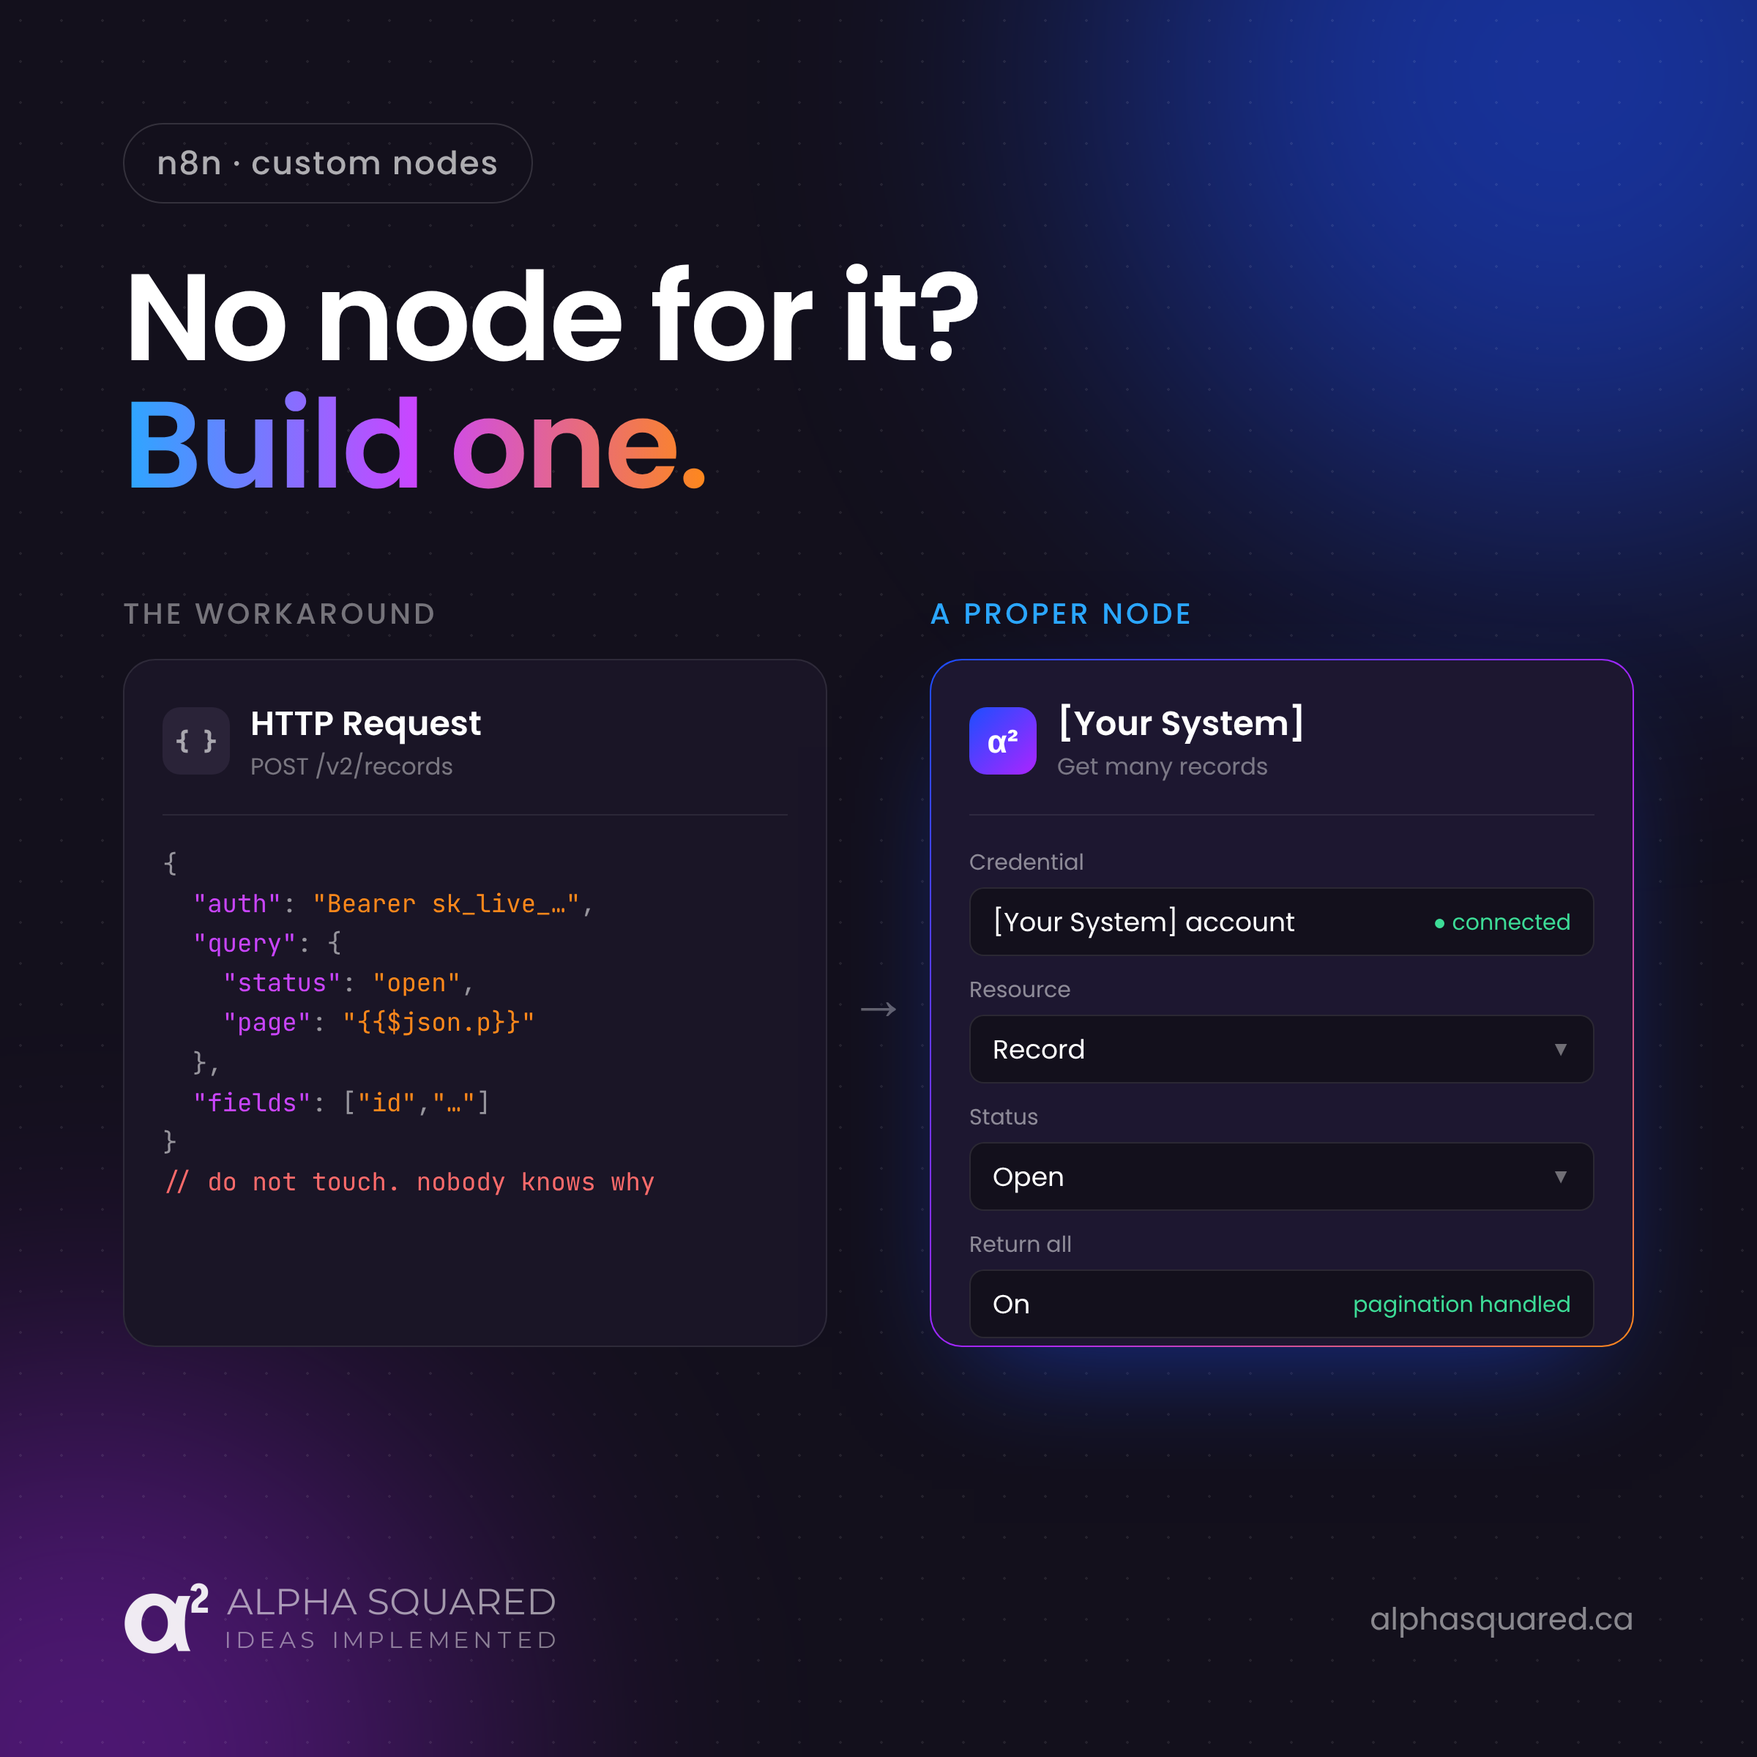
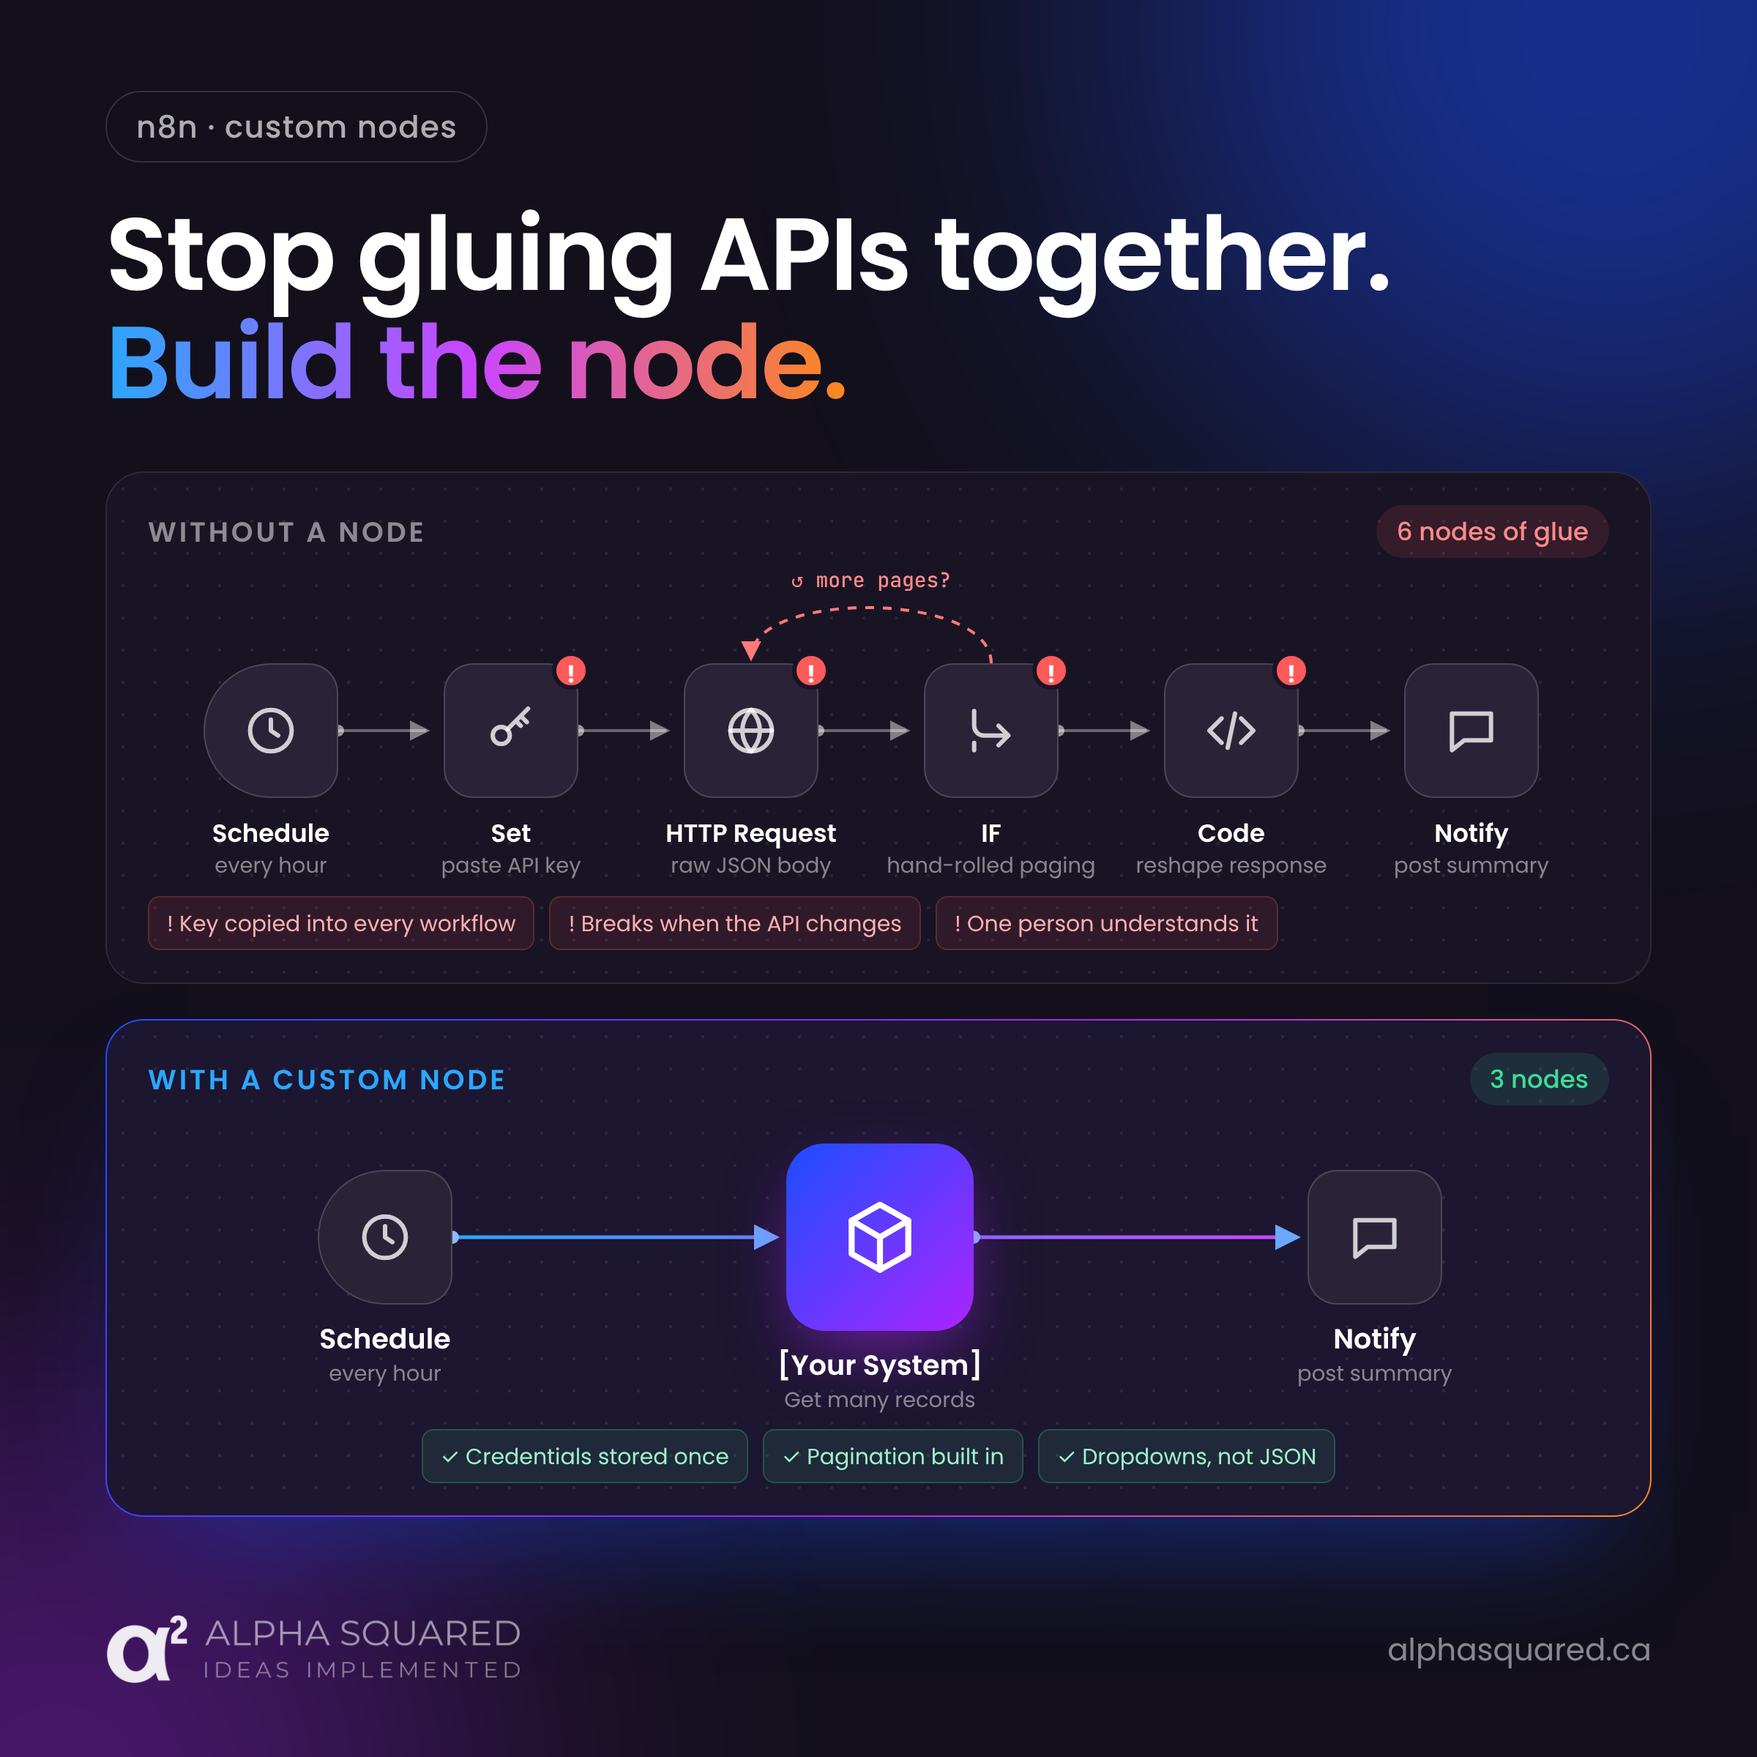
Redraw the n8n post image as two workflows
Claude-Session: https://claude.ai/code/session_01QT7c1s7C7iuz9xQL5hfNep

diff --git a/notes/images/2026-11-25-n8n-node.html b/notes/images/2026-11-25-n8n-node.html
@@ -1,128 +1,143 @@
 <!doctype html>
 <html><head><meta charset="utf-8">
-<link href="https://fonts.googleapis.com/css2?family=Poppins:wght@400;500;600;700&family=JetBrains+Mono:wght@400;500&display=swap" rel="stylesheet">
+<link href="https://fonts.googleapis.com/css2?family=Poppins:wght@400;500;600;700&family=JetBrains+Mono:wght@500&display=swap" rel="stylesheet">
 <style>
   * { box-sizing: border-box; margin: 0; padding: 0; }
   html, body { width: 1200px; height: 1200px; }
-  body {
-    background: #13101c;
-    font-family: 'Poppins', sans-serif;
-    color: #fff;
-    position: relative;
-    overflow: hidden;
-  }
-  .glow { position: absolute; border-radius: 50%; filter: blur(120px); opacity: .55; }
-  .g1 { width: 620px; height: 620px; background: #1c4eff; top: -260px; right: -180px; }
-  .g2 { width: 520px; height: 520px; background: #ac24ff; bottom: -260px; left: -200px; opacity: .4; }
-  .grid {
-    position: absolute; inset: 0;
-    background-image: radial-gradient(rgba(255,255,255,.07) 1px, transparent 1px);
-    background-size: 28px 28px;
-  }
-  .wrap { position: relative; padding: 84px 84px 0; height: 100%; }
-  .kicker {
-    display: inline-block; font-size: 22px; font-weight: 500; letter-spacing: .04em;
-    color: rgba(255,255,255,.66);
-    border: 1px solid rgba(255,255,255,.14); border-radius: 999px; padding: 10px 22px;
-  }
-  h1 { font-size: 84px; line-height: 1.04; font-weight: 600; letter-spacing: -.02em; margin-top: 34px; }
-  h1 .grad {
-    background: linear-gradient(90deg, #2ba7ff 0%, #ca45ff 50%, #fe881b 100%);
-    -webkit-background-clip: text; background-clip: text; color: transparent;
-  }
+  body { background: #13101c; font-family: 'Poppins', sans-serif; color: #fff; position: relative; overflow: hidden; }
+  .glow { position: absolute; border-radius: 50%; filter: blur(130px); }
+  .g1 { width: 640px; height: 640px; background: #1c4eff; top: -300px; right: -220px; opacity: .5; }
+  .g2 { width: 560px; height: 560px; background: #ac24ff; bottom: -300px; left: -240px; opacity: .35; }
 
-  .compare { display: grid; grid-template-columns: 1fr 70px 1fr; align-items: center; margin-top: 56px; }
-  .label { font-size: 20px; font-weight: 500; letter-spacing: .1em; text-transform: uppercase; margin-bottom: 16px; }
-  .label.before { color: rgba(255,255,255,.42); }
-  .label.after { color: #2ba7ff; }
+  .head { position: absolute; left: 72px; top: 62px; right: 72px; }
+  .kicker { display: inline-block; font-size: 21px; font-weight: 500; letter-spacing: .03em; color: rgba(255,255,255,.66);
+            border: 1px solid rgba(255,255,255,.14); border-radius: 999px; padding: 8px 20px; }
+  h1 { font-size: 70px; line-height: 1.06; font-weight: 600; letter-spacing: -.02em; margin-top: 26px; }
+  .grad { background: linear-gradient(90deg, #2ba7ff 0%, #ca45ff 50%, #fe881b 100%); -webkit-background-clip: text; background-clip: text; color: transparent; }
 
-  .node {
-    background: #1a1526; border: 1px solid rgba(255,255,255,.09); border-radius: 22px;
-    padding: 26px; height: 470px; display: flex; flex-direction: column;
-  }
-  .node.after {
-    border: 1.5px solid transparent;
-    background: linear-gradient(#1d1730, #1d1730) padding-box,
-                linear-gradient(135deg, #1c4eff, #ac24ff 55%, #fe881b) border-box;
-    box-shadow: 0 30px 80px -30px rgba(28,78,255,.55);
-  }
-  .nhead { display: flex; align-items: center; gap: 14px; padding-bottom: 20px; border-bottom: 1px solid rgba(255,255,255,.08); margin-bottom: 20px; }
-  .icon { width: 46px; height: 46px; border-radius: 12px; display: grid; place-items: center; font-size: 22px; font-weight: 600; flex: none; }
-  .icon.http { background: #2a2338; color: rgba(255,255,255,.6); font-family: 'JetBrains Mono', monospace; font-size: 16px; }
-  .icon.mine { background: linear-gradient(135deg, #1c4eff, #ac24ff); }
-  .ntitle { font-size: 23px; font-weight: 600; }
-  .nsub { font-size: 16px; color: rgba(255,255,255,.42); }
+  .panel { position: absolute; left: 72px; width: 1056px; border-radius: 26px; overflow: hidden;
+           background-color: #191424; border: 1px solid rgba(255,255,255,.09);
+           background-image: radial-gradient(rgba(255,255,255,.075) 1.2px, transparent 1.2px); background-size: 22px 22px; }
+  .p1 { top: 322px; height: 350px; }
+  .p2 { top: 696px; height: 340px;
+        border: 1.5px solid transparent;
+        background: radial-gradient(rgba(255,255,255,.075) 1.2px, transparent 1.2px) 0 0 / 22px 22px padding-box,
+                    linear-gradient(#1c1630, #1c1630) padding-box,
+                    linear-gradient(120deg, #1c4eff, #ac24ff 55%, #fe881b) border-box;
+        box-shadow: 0 40px 90px -40px rgba(28,78,255,.6); }
 
-  pre {
-    font-family: 'JetBrains Mono', monospace; font-size: 17px; line-height: 1.6;
-    color: rgba(255,255,255,.55); white-space: pre; overflow: hidden;
-  }
-  .k { color: #ca45ff; } .s { color: #fe881b; } .warn { color: #ff6b6b; }
+  .ph { position: absolute; left: 28px; right: 28px; top: 22px; display: flex; justify-content: space-between; align-items: center; z-index: 3; }
+  .ptitle { font-size: 19px; font-weight: 600; letter-spacing: .1em; text-transform: uppercase; }
+  .p1 .ptitle { color: rgba(255,255,255,.5); }
+  .p2 .ptitle { color: #2ba7ff; }
+  .count { font-size: 17px; font-weight: 500; padding: 5px 14px; border-radius: 999px; }
+  .p1 .count { color: #ff8a8a; background: rgba(255,90,90,.12); }
+  .p2 .count { color: #3ddc97; background: rgba(61,220,151,.12); }
 
-  .field { margin-bottom: 11px; }
-  .flabel { font-size: 15px; color: rgba(255,255,255,.5); margin-bottom: 6px; }
-  .finput {
-    background: #13101c; border: 1px solid rgba(255,255,255,.1); border-radius: 10px;
-    padding: 9px 15px; font-size: 18px; display: flex; justify-content: space-between; align-items: center;
-  }
-  .finput .chev { color: rgba(255,255,255,.4); font-size: 14px; }
-  .ok { color: #3ddc97; font-size: 15px; }
+  svg.wires { position: absolute; inset: 0; z-index: 1; }
 
-  .arrow { text-align: center; font-size: 40px; color: rgba(255,255,255,.35); padding-top: 40px; }
+  .node { position: absolute; width: 92px; height: 92px; margin-left: -46px; border-radius: 20px; z-index: 2;
+          background: #2a2338; border: 1.5px solid rgba(255,255,255,.16);
+          display: grid; place-items: center; }
+  .node svg { width: 40px; height: 40px; stroke: rgba(255,255,255,.78); fill: none; stroke-width: 1.8; stroke-linecap: round; stroke-linejoin: round; }
+  .node.trig { border-radius: 46px 20px 20px 46px; }
+  .node.big { width: 128px; height: 128px; margin-left: -64px; border-radius: 26px; border: none;
+              background: linear-gradient(135deg, #1c4eff, #ac24ff); box-shadow: 0 18px 50px -12px rgba(172,36,255,.65); }
+  .node.big svg { width: 58px; height: 58px; stroke: #fff; stroke-width: 1.7; }
+  .bad { position: absolute; top: -9px; right: -9px; width: 26px; height: 26px; border-radius: 50%;
+         background: #ff5a5a; color: #fff; font-size: 16px; font-weight: 700; display: grid; place-items: center;
+         border: 3px solid #191424; }
 
-  .foot {
-    position: absolute; left: 84px; right: 84px; bottom: 70px;
-    display: flex; justify-content: space-between; align-items: center;
-  }
-  .foot img { height: 50px; }
+  .lab { position: absolute; width: 180px; margin-left: -90px; text-align: center; z-index: 2; }
+  .lab b { display: block; font-size: 17px; font-weight: 600; line-height: 1.25; }
+  .lab span { display: block; font-size: 14.5px; color: rgba(255,255,255,.48); line-height: 1.3; margin-top: 2px; }
+  .p2 .lab b { font-size: 19px; }
+
+  .loop { position: absolute; z-index: 2; font-family: 'JetBrains Mono', monospace; font-size: 14px; color: #ff8a8a;
+          width: 240px; margin-left: -120px; text-align: center; }
+
+  .legend { position: absolute; left: 28px; right: 28px; bottom: 22px; display: flex; gap: 10px; z-index: 3; }
+  .legend span { font-size: 15px; padding: 6px 12px; border-radius: 8px; white-space: nowrap; }
+  .p1 .legend span { color: #ffb0b0; background: rgba(255,90,90,.10); border: 1px solid rgba(255,90,90,.22); }
+  .p2 .legend { justify-content: center; }
+  .p2 .legend span { color: #9ff0c9; background: rgba(61,220,151,.10); border: 1px solid rgba(61,220,151,.24); }
+
+  .foot { position: absolute; left: 72px; right: 72px; bottom: 50px; display: flex; justify-content: space-between; align-items: center; }
+  .foot img { height: 48px; }
   .foot span { font-size: 21px; color: rgba(255,255,255,.5); }
 </style></head>
 <body>
-  <div class="glow g1"></div><div class="glow g2"></div><div class="grid"></div>
-  <div class="wrap">
+  <div class="glow g1"></div><div class="glow g2"></div>
+
+  <div class="head">
     <span class="kicker">n8n · custom nodes</span>
-    <h1>No node for it?<br><span class="grad">Build one.</span></h1>
+    <h1>Stop gluing APIs together.<br><span class="grad">Build the node.</span></h1>
+  </div>
 
-    <div class="compare">
-      <div>
-        <div class="label before">The workaround</div>
-        <div class="node">
-          <div class="nhead">
-            <div class="icon http">{ }</div>
-            <div><div class="ntitle">HTTP Request</div><div class="nsub">POST /v2/records</div></div>
-          </div>
-<pre>{
-  <span class="k">"auth"</span>: <span class="s">"Bearer sk_live_…"</span>,
-  <span class="k">"query"</span>: {
-    <span class="k">"status"</span>: <span class="s">"open"</span>,
-    <span class="k">"page"</span>: <span class="s">"{{$json.p}}"</span>
-  },
-  <span class="k">"fields"</span>: [<span class="s">"id"</span>,<span class="s">"…"</span>]
-}
-<span class="warn">// do not touch. nobody knows why</span></pre>
-        </div>
-      </div>
+  <!-- ============ WITHOUT ============ -->
+  <div class="panel p1">
+    <div class="ph"><span class="ptitle">Without a node</span><span class="count">6 nodes of glue</span></div>
 
-      <div class="arrow">→</div>
+    <svg class="wires" width="1056" height="350" viewBox="0 0 1056 350">
+      <defs>
+        <marker id="ag" viewBox="0 0 10 10" refX="8" refY="5" markerWidth="7" markerHeight="7" orient="auto"><path d="M0,0 L10,5 L0,10 z" fill="rgba(255,255,255,.45)"/></marker>
+        <marker id="ar" viewBox="0 0 10 10" refX="8" refY="5" markerWidth="7" markerHeight="7" orient="auto"><path d="M0,0 L10,5 L0,10 z" fill="#ff7a7a"/></marker>
+      </defs>
+      <g stroke="rgba(255,255,255,.35)" stroke-width="2" fill="none" marker-end="url(#ag)">
+        <path d="M158 176 H218"/><path d="M322 176 H382"/><path d="M486 176 H546"/>
+        <path d="M650 176 H710"/><path d="M814 176 H874"/>
+      </g>
+      <g fill="rgba(255,255,255,.55)">
+        <circle cx="158" cy="176" r="4"/><circle cx="322" cy="176" r="4"/><circle cx="486" cy="176" r="4"/>
+        <circle cx="650" cy="176" r="4"/><circle cx="814" cy="176" r="4"/>
+      </g>
+      <!-- pagination loop: IF back to HTTP -->
+      <path d="M604 130 C604 80, 440 80, 440 126" stroke="#ff7a7a" stroke-width="2" stroke-dasharray="6 6" fill="none" marker-end="url(#ar)"/>
+    </svg>
 
-      <div>
-        <div class="label after">A proper node</div>
-        <div class="node after">
-          <div class="nhead">
-            <div class="icon mine">α²</div>
-            <div><div class="ntitle">[Your System]</div><div class="nsub">Get many records</div></div>
-          </div>
-          <div class="field"><div class="flabel">Credential</div>
-            <div class="finput">[Your System] account <span class="ok">● connected</span></div></div>
-          <div class="field"><div class="flabel">Resource</div>
-            <div class="finput">Record <span class="chev">▼</span></div></div>
-          <div class="field"><div class="flabel">Status</div>
-            <div class="finput">Open <span class="chev">▼</span></div></div>
-          <div class="field"><div class="flabel">Return all</div>
-            <div class="finput">On <span class="ok">pagination handled</span></div></div>
-        </div>
-      </div>
-    </div>
+    <div class="loop" style="left:522px; top:64px">↺ more pages?</div>
+
+    <div class="node trig" style="left:112px; top:130px"><svg viewBox="0 0 24 24"><circle cx="12" cy="12" r="8.5"/><path d="M12 7.5V12l3 2"/></svg></div>
+    <div class="node" style="left:276px; top:130px"><svg viewBox="0 0 24 24"><circle cx="8" cy="14" r="3.5"/><path d="M10.5 11.5 19 3M16 6l2.5 2.5M14 8l2 2"/></svg><div class="bad">!</div></div>
+    <div class="node" style="left:440px; top:130px"><svg viewBox="0 0 24 24"><circle cx="12" cy="12" r="8.5"/><path d="M3.5 12h17M12 3.5c2.5 2.6 3.6 5.4 3.6 8.5s-1.1 5.9-3.6 8.5c-2.5-2.6-3.6-5.4-3.6-8.5S9.5 6.1 12 3.5Z"/></svg><div class="bad">!</div></div>
+    <div class="node" style="left:604px; top:130px"><svg viewBox="0 0 24 24"><path d="M5 4v6a4 4 0 0 0 4 4h10M15 10l4 4-4 4M5 20v-3"/></svg><div class="bad">!</div></div>
+    <div class="node" style="left:768px; top:130px"><svg viewBox="0 0 24 24"><path d="m8 7-5 5 5 5M16 7l5 5-5 5M13.5 5l-3 14"/></svg><div class="bad">!</div></div>
+    <div class="node" style="left:932px; top:130px"><svg viewBox="0 0 24 24"><path d="M4 5h16v11H9l-5 4z"/></svg></div>
+
+    <div class="lab" style="left:112px; top:236px"><b>Schedule</b><span>every hour</span></div>
+    <div class="lab" style="left:276px; top:236px"><b>Set</b><span>paste API key</span></div>
+    <div class="lab" style="left:440px; top:236px"><b>HTTP Request</b><span>raw JSON body</span></div>
+    <div class="lab" style="left:604px; top:236px"><b>IF</b><span>hand-rolled paging</span></div>
+    <div class="lab" style="left:768px; top:236px"><b>Code</b><span>reshape response</span></div>
+    <div class="lab" style="left:932px; top:236px"><b>Notify</b><span>post summary</span></div>
+
+    <div class="legend"><span>! Key copied into every workflow</span><span>! Breaks when the API changes</span><span>! One person understands it</span></div>
+  </div>
+
+  <!-- ============ WITH ============ -->
+  <div class="panel p2">
+    <div class="ph"><span class="ptitle">With a custom node</span><span class="count">3 nodes</span></div>
+
+    <svg class="wires" width="1056" height="340" viewBox="0 0 1056 340">
+      <defs>
+        <marker id="ab" viewBox="0 0 10 10" refX="8" refY="5" markerWidth="7" markerHeight="7" orient="auto"><path d="M0,0 L10,5 L0,10 z" fill="#6aa8ff"/></marker>
+        <linearGradient id="wg" gradientUnits="userSpaceOnUse" x1="236" y1="0" x2="812" y2="0"><stop offset="0" stop-color="#2ba7ff"/><stop offset="1" stop-color="#ca45ff"/></linearGradient>
+      </defs>
+      <g stroke="url(#wg)" stroke-width="2.5" fill="none" marker-end="url(#ab)">
+        <path d="M236 148 H456"/><path d="M592 148 H812"/>
+      </g>
+      <g fill="#8fb8ff"><circle cx="236" cy="148" r="4.5"/><circle cx="592" cy="148" r="4.5"/></g>
+    </svg>
+
+    <div class="node trig" style="left:190px; top:102px"><svg viewBox="0 0 24 24"><circle cx="12" cy="12" r="8.5"/><path d="M12 7.5V12l3 2"/></svg></div>
+    <div class="node big" style="left:528px; top:84px"><svg viewBox="0 0 24 24"><path d="M12 2.8 20 7.3v9.4L12 21.2 4 16.7V7.3z"/><path d="M4 7.3 12 12l8-4.7M12 12v9.2"/></svg></div>
+    <div class="node" style="left:866px; top:102px"><svg viewBox="0 0 24 24"><path d="M4 5h16v11H9l-5 4z"/></svg></div>
+
+    <div class="lab" style="left:190px; top:206px"><b>Schedule</b><span>every hour</span></div>
+    <div class="lab" style="left:528px; top:224px; width:260px; margin-left:-130px"><b>[Your System]</b><span>Get many records</span></div>
+    <div class="lab" style="left:866px; top:206px"><b>Notify</b><span>post summary</span></div>
+
+    <div class="legend"><span>✓ Credentials stored once</span><span>✓ Pagination built in</span><span>✓ Dropdowns, not JSON</span></div>
   </div>
 
   <div class="foot">
